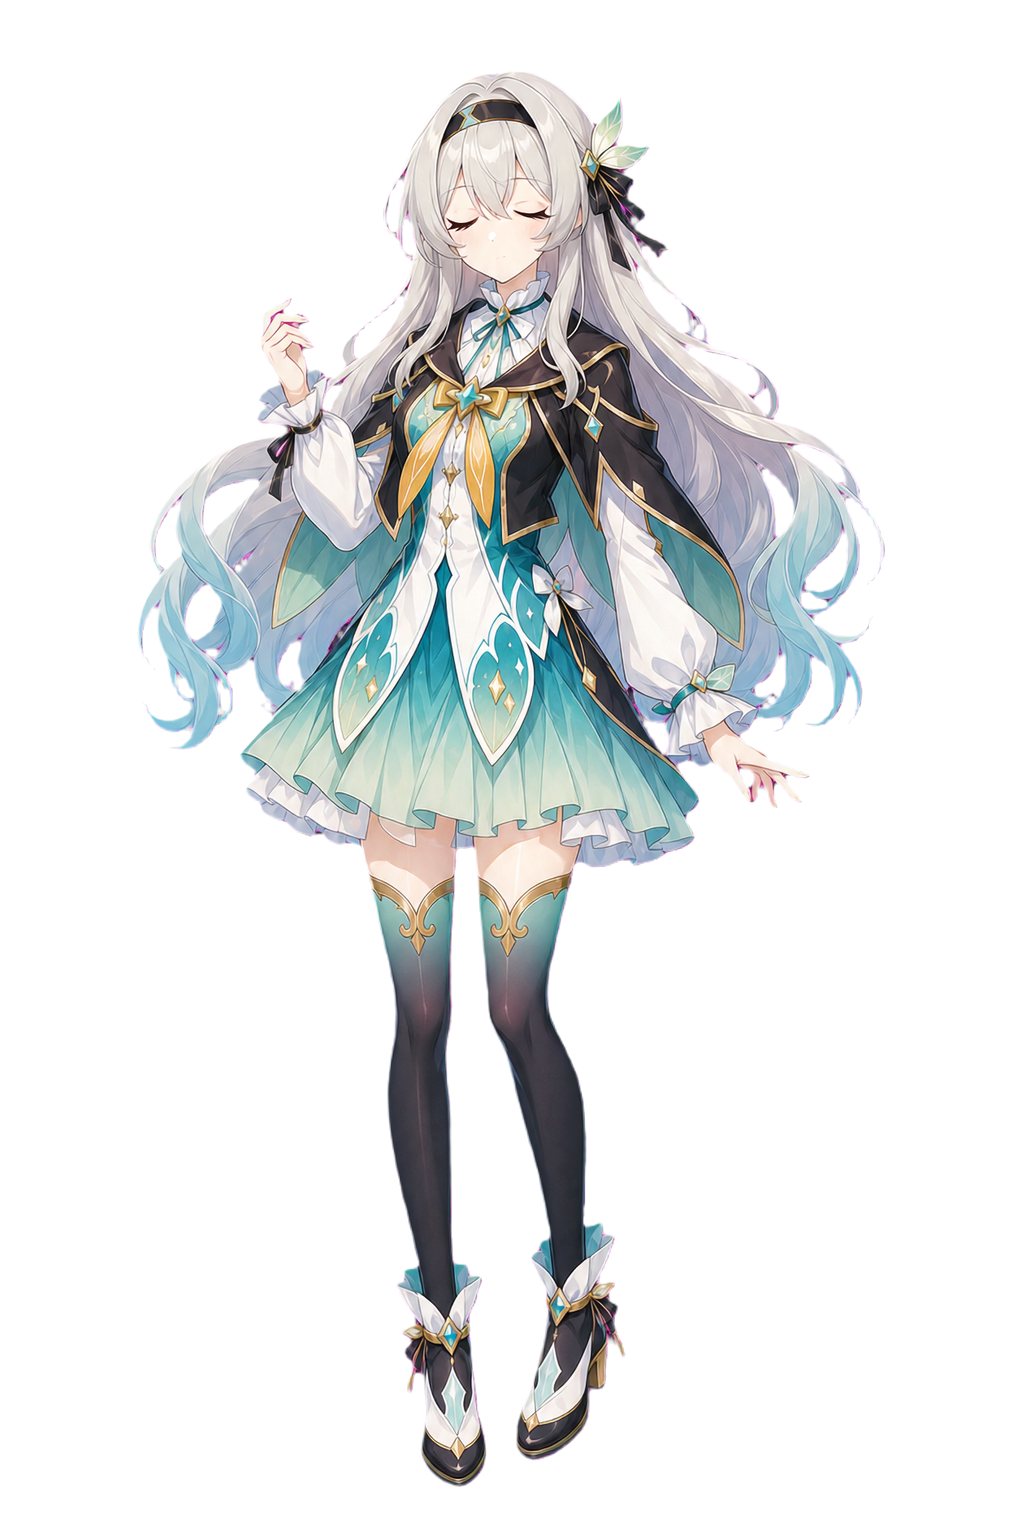
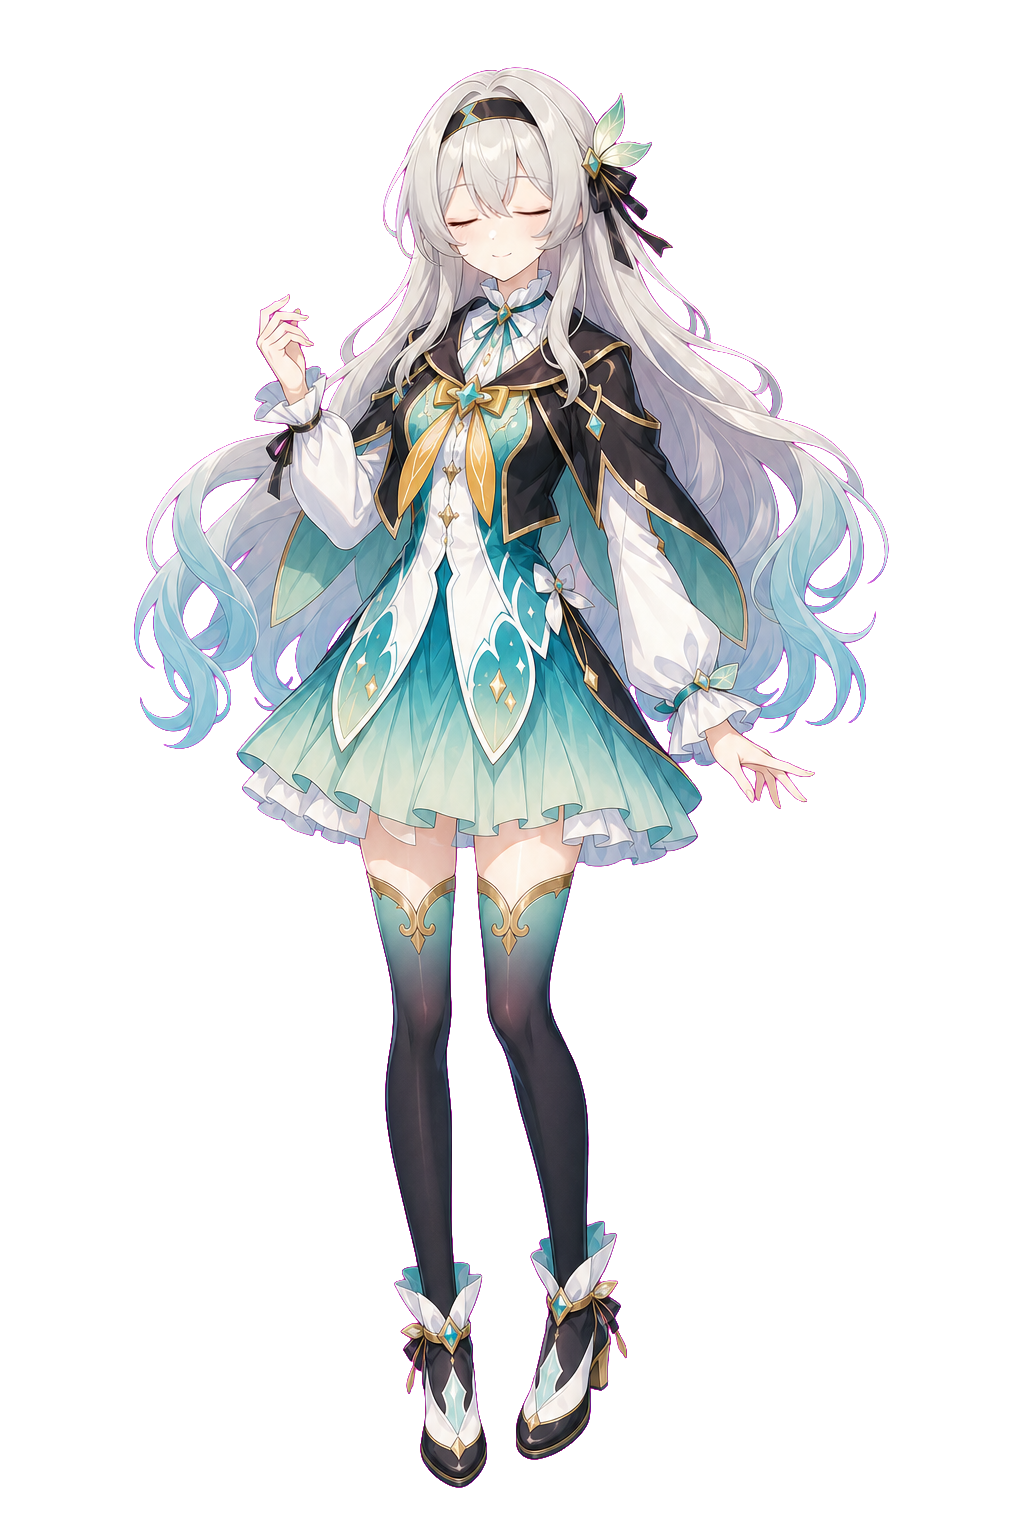
Document blink expression updates

Changed region(s): [[0.125, 0.0312, 0.875, 0.9688], [0.5, 0.7188, 0.625, 0.9688], [0.4375, 0.7188, 0.4688, 0.75]]

diff --git a/renderer/renderer.js b/renderer/renderer.js
@@ -56,7 +56,10 @@ const BLINK_IMAGE_CANDIDATES = {
   "../assets/character_angry_blink.png",
   "../assets/character_angry.png"
 ],
-  sleepy: []
+  sleepy: [
+  "../assets/character_sleepy_blink.png",
+  "../assets/character_sleepy.png"
+]
 };
 
 const loadedBlinkImages = {};
@@ -389,8 +392,6 @@ stopSpriteMotion();
   dragStartSceneX = sceneX;
   dragStartSceneY = sceneY;
 
-  setTemporaryExpression("thinking", 0);
-
   petRoot.classList.add("dragging-pet");
 
   speechBubble.classList.remove("show");
@@ -451,7 +452,6 @@ function cancelMouseDrag() {
   petRoot.classList.remove("dragging-pet");
 
   stopSpriteMotion();
-  restoreBaseExpressionSoon(200);
   setMouseIgnoreIfChanged(true);
 }
 
@@ -477,7 +477,6 @@ function finishMouseDrag(event) {
     showRandomLine();
   } else {
     snapSceneToLeftOrBottomEdge();
-    restoreBaseExpressionSoon(300);
   }
 
   if (
@@ -1159,8 +1158,6 @@ function canPlayBlink() {
   if (isMouseDown) return false;
   if (isBlinking) return false;
 
-  if (currentExpression === "sleepy") return false;
-
   if (speechBubble.classList.contains("show")) return false;
 
   if (pet.classList.contains("sprite-hidden")) return false;
@@ -1196,7 +1193,19 @@ function scheduleNextBlink() {
     blinkTimer = null;
   }
 
-  const delayMs = 4500 + Math.random() * 5500;
+  let minDelayMs = 3500;
+  let maxDelayMs = 7500;
+
+  /*
+    困困状态：眨眼更慢、更少。
+    像快睡着时偶尔缓慢闭眼。
+  */
+  if (currentExpression === "sleepy") {
+    minDelayMs = 6500;
+    maxDelayMs = 13000;
+  }
+
+  const delayMs = minDelayMs + Math.random() * (maxDelayMs - minDelayMs);
 
   blinkTimer = setTimeout(() => {
     playBlinkOnce();
@@ -1218,6 +1227,23 @@ function playBlinkOnce() {
 
   const expressionBeforeBlink = currentExpression;
 
+  /*
+    普通眨眼：110–150ms
+    困困眨眼：220–360ms，更慢，更像睡眼惺忪
+  */
+  let closeDurationMs = 110 + Math.random() * 40;
+
+  if (currentExpression === "sleepy") {
+    closeDurationMs = 220 + Math.random() * 140;
+  }
+
+  /*
+    普通状态偶尔双眨眼。
+    困困状态不双眨，避免像抽动。
+  */
+  const shouldDoubleBlink =
+    currentExpression !== "sleepy" && Math.random() < 0.08;
+
   pet.src = blinkImage;
 
   if (blinkFrameTimer) {
@@ -1228,20 +1254,38 @@ function playBlinkOnce() {
   blinkFrameTimer = setTimeout(() => {
     if (token !== blinkPlayToken) return;
 
-    isBlinking = false;
+    restoreBlinkImage(expressionBeforeBlink);
 
-    const expressionAfterBlink = normalizeExpressionName(currentExpression);
+    if (shouldDoubleBlink && canPlayBlink()) {
+      blinkFrameTimer = setTimeout(() => {
+        if (token !== blinkPlayToken) return;
 
-    /*
-      如果眨眼期间表情没变，就恢复原表情。
-      如果眨眼期间右键切换了表情，就恢复切换后的表情。
-    */
-    if (expressionBeforeBlink === expressionAfterBlink) {
-      pet.src = EXPRESSION_IMAGES[expressionBeforeBlink];
-    } else {
-      pet.src = EXPRESSION_IMAGES[expressionAfterBlink];
+        pet.src = blinkImage;
+
+        blinkFrameTimer = setTimeout(() => {
+          if (token !== blinkPlayToken) return;
+
+          restoreBlinkImage(expressionBeforeBlink);
+        }, closeDurationMs);
+      }, 130);
     }
-  }, 120);
+  }, closeDurationMs);
+}
+
+function restoreBlinkImage(expressionBeforeBlink) {
+  isBlinking = false;
+
+  const expressionAfterBlink = normalizeExpressionName(currentExpression);
+
+  /*
+    如果眨眼期间表情没变，就恢复眨眼前表情。
+    如果期间右键切了状态，就恢复新状态。
+  */
+  if (expressionBeforeBlink === expressionAfterBlink) {
+    pet.src = EXPRESSION_IMAGES[expressionBeforeBlink];
+  } else {
+    pet.src = EXPRESSION_IMAGES[expressionAfterBlink];
+  }
 }
 
 function stopBlink(shouldRestoreImage = true) {
@@ -1424,8 +1468,6 @@ function showRandomLine() {
 
   if (lines.length === 0) {
     showLine("我还没有台词呢。", {
-      expression: "thinking",
-      expressionDurationMs: 3500,
       motion: "wave"
     });
     return;
@@ -1441,8 +1483,6 @@ function showRandomLine() {
     3. 没有 wave.png 时回退为轻轻跳一下
   */
   showLine(line, {
-    expression: "thinking",
-    expressionDurationMs: 3500,
     motion: "wave"
   });
 }
@@ -1484,9 +1524,11 @@ function showLine(line, options = {}) {
     clearTimeout(bubbleTimer);
   }
 
-  bubbleTimer = setTimeout(() => {
-    speechBubble.classList.remove("show");
-  }, 3500);
+const displayDurationMs = Number(options.displayDurationMs || 3500);
+
+bubbleTimer = setTimeout(() => {
+  speechBubble.classList.remove("show");
+}, displayDurationMs);
 }
 
 function getTextVisualLength(text) {
@@ -1608,9 +1650,8 @@ function showReminderLine(item) {
 
   if (lines.length === 0) {
     showLine("该休息一下啦。", {
-      expression: "thinking",
-      expressionDurationMs: 3500,
-      motion: "wiggle"
+      motion: "wiggle",
+      displayDurationMs: 6500
     });
     return;
   }
@@ -1619,9 +1660,8 @@ function showReminderLine(item) {
   const line = lines[randomIndex];
 
   showLine(line, {
-    expression: "thinking",
-    expressionDurationMs: 3500,
-    motion: "wiggle"
+    motion: "wiggle",
+    displayDurationMs: 7000
   });
 }
 

diff --git a/README.md b/README.md
@@ -6,7 +6,7 @@
 
 - 透明、无边框、置顶桌宠窗口
 - 流萤立绘显示和多表情切换
-- 新增随机眨眼和小生气表情
+- 新增随机眨眼和小生气表情，眨眼会随不同表情切换
 - 左键点击触发台词和动作
 - 左键拖拽移动桌宠位置
 - 右键菜单切换尺寸、表情和互动功能
@@ -93,6 +93,7 @@ DEEPSEEK_API_KEY=你的 DeepSeek API Key
 - `余额`：刷新 DeepSeek 余额信息
 
 聊天记录里会显示本地时间戳，默认按 `Asia/Shanghai` 生成。
+困困状态下，眨眼频率和闭眼时长会更接近犯困的感觉。
 
 流萤的聊天人格提示词位于：
 
